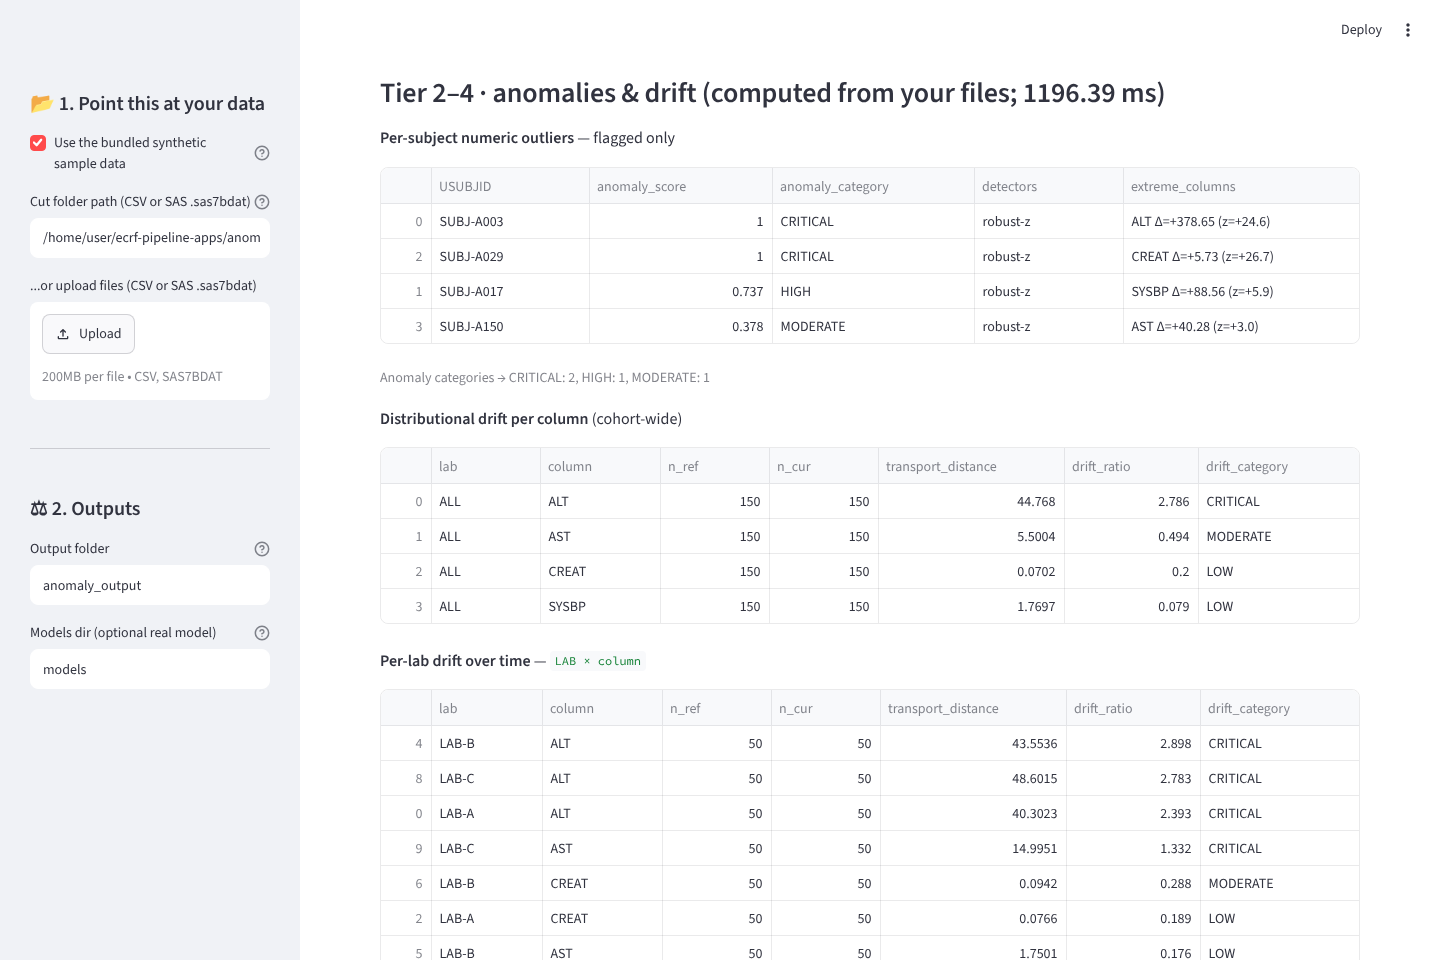
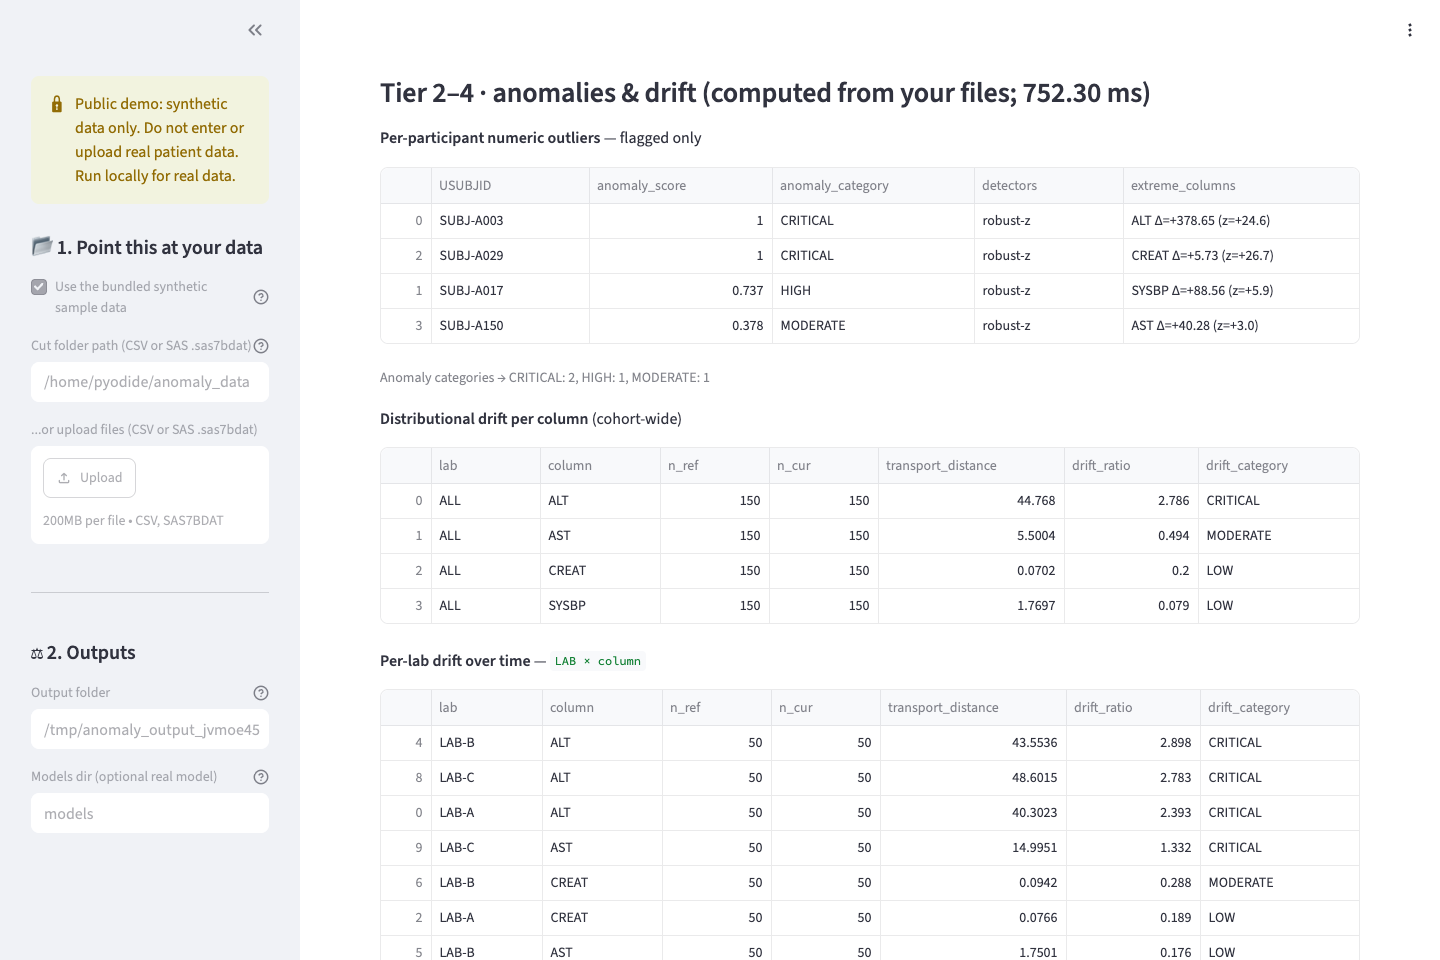
Refresh the four result screenshots from the browser pages
The screenshots in docs/img/, which are also each page's loading and
fallback image, came from older local runs: they said "per-subject
risk" and "Per-subject numeric outliers", showed Streamlit's Deploy
button and the local "Wrote risk_output/..." message. They are now
captured from the in-browser pages themselves (light theme, 1440 x 960
of the app area, after Execute), so they match what a visitor sees:
"per-participant", the hosted-mode banner and the in-tab "Done"
message. The README and landing-page captions say where they come from.

diff --git a/docs/index.html b/docs/index.html
@@ -180,7 +180,7 @@ footer.site { margin:48px 0 0; padding:20px 0 40px; border-top:1px solid var(--l
 
 <section aria-labelledby="shots">
   <h2 id="shots">Screenshots</h2>
-  <p class="muted">Local runs on the bundled synthetic data, opened with <code>?demo=1</code> and captured after Execute. Select an image to open it at full size.</p>
+  <p class="muted">Captured from the in-browser pages (hosted mode, bundled synthetic data) after Execute; a local run on the stand-in path shows the same tables. Select an image to open it at full size.</p>
   <figure>
     <a href="img/meddra_results.png"><img src="img/meddra_results.png" width="1440" height="960" loading="lazy"
          alt="Coding app results table: each adverse-event verbatim with its top three candidate terms, ranks and 99-prefixed placeholder codes, followed by the success message and download buttons."></a>

diff --git a/README.md b/README.md
@@ -86,7 +86,7 @@ The apps also support a public server deployment. Set the environment variable `
 
 ## Screenshots
 
-Local runs on the bundled synthetic data, opened with `?demo=1` and captured after **Execute**.
+Captured from the in-browser pages (hosted mode, bundled synthetic data) after **Execute**; a local run on the stand-in path shows the same tables.
 
 ![Coding app results table: each adverse-event verbatim with its top three candidate terms, ranks and 99-prefixed placeholder codes](docs/img/meddra_results.png)
 
